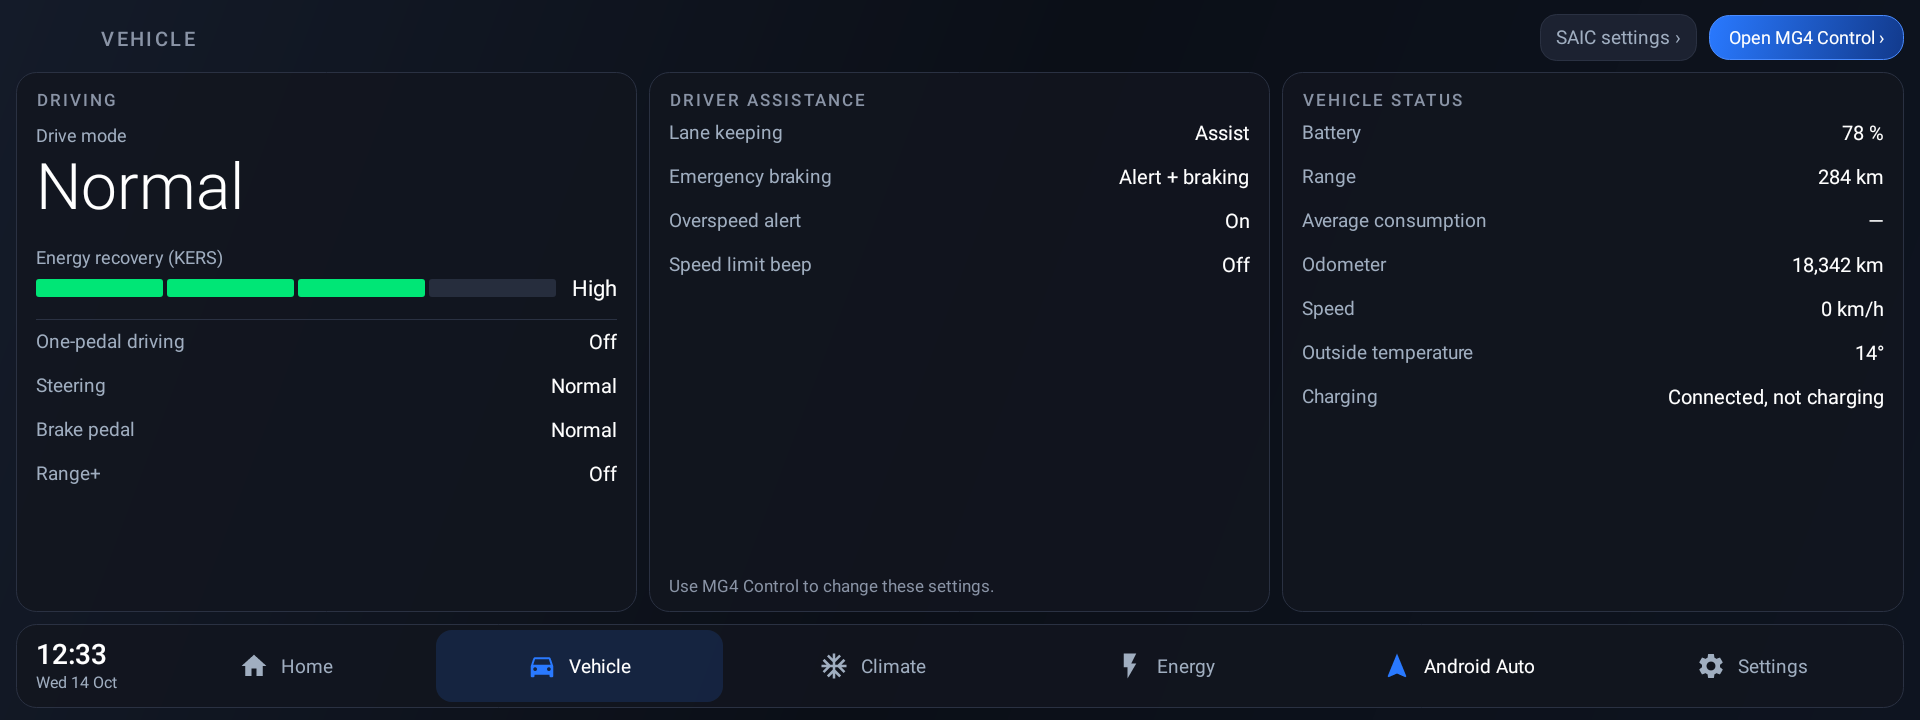
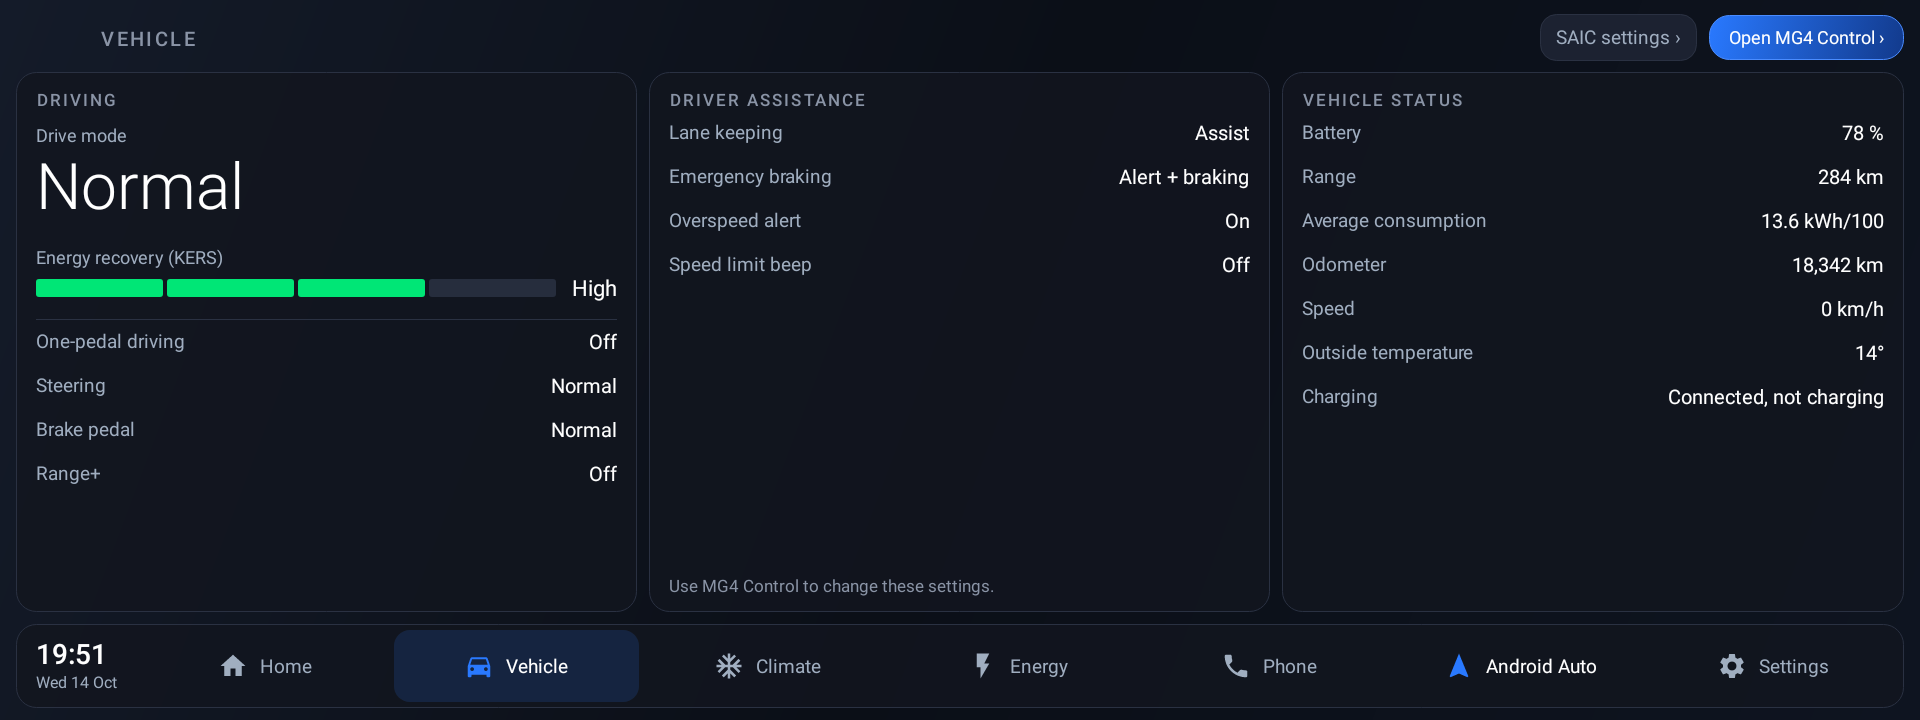
README and screenshots for 0.6.0 (Phone page)

diff --git a/README.md b/README.md
@@ -1,6 +1,6 @@
 # MG4Dash
 
-Full-screen launcher for the MG4 Standard (SWI69 firmware, A9 family) and its 1920 × 720 screen: a "dark glass" look, a three-column home screen, and Climate, Energy and Vehicle pages linked by a shared dock.
+Full-screen launcher for the MG4 Standard (SWI69 firmware, A9 family) and its 1920 × 720 screen: a "dark glass" look, a three-column home screen, and Climate, Energy, Vehicle and Phone pages linked by a shared dock.
 
 Languages: English (default), French, German, Spanish, Italian and Dutch, following the car's system language.
 
@@ -27,6 +27,10 @@ Charging (start / stop, charge limit enforced by MG4Dash, AC current), scheduled
 ### Vehicle
 ![Vehicle](docs/screenshots/vehicle.png)
 Drive mode, KERS, driver assistance and vehicle status, read only, with a shortcut to MG4 Control.
+
+### Phone
+![Phone](docs/screenshots/phone.png)
+Recent calls, contacts with a search field and a keypad, from the phone connected over Bluetooth. Calls go through the hands-free (HFP) account, like the stock phone app, whose in-call screen is kept.
 
 ### Launcher settings
 ![Settings](docs/screenshots/settings.png)
